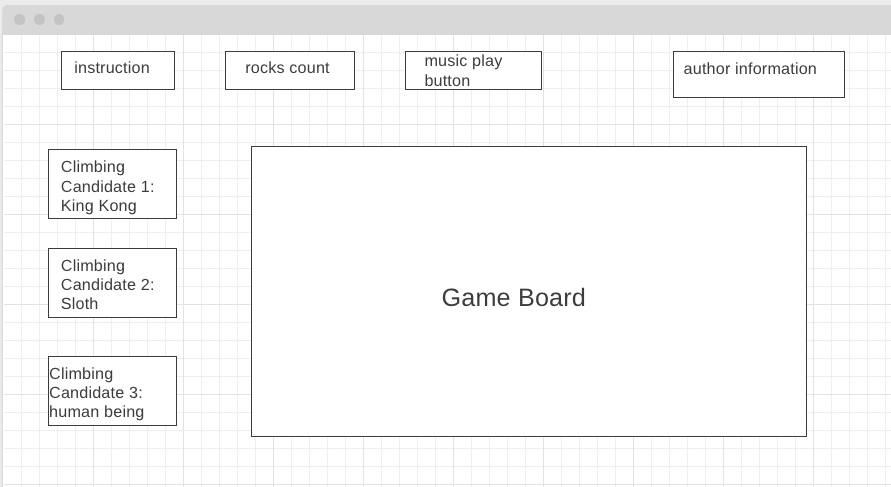
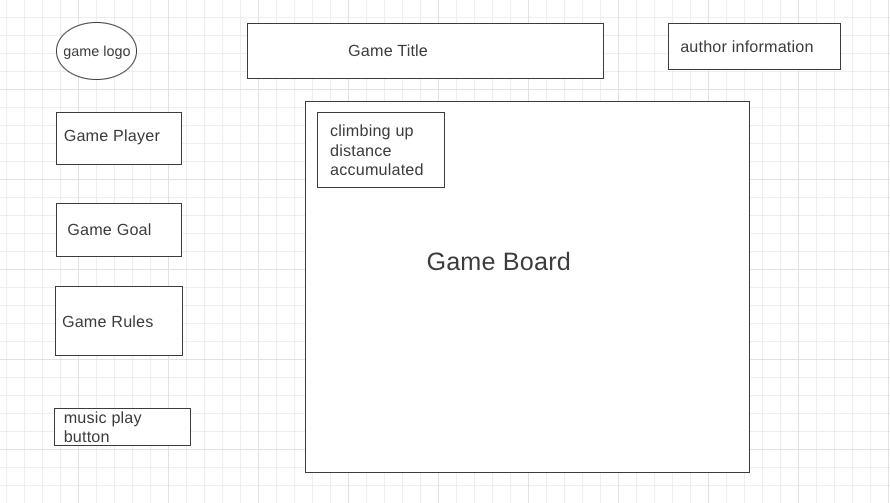
update README.md

diff --git a/index.html b/index.html
@@ -114,6 +114,7 @@
       let mySong = document.getElementById("jungle-music");
       let offButton = document.getElementById("music-off");
       let playButton = document.getElementById("music-on");
+
       playButton.onclick = function () {
         mySong.play();
         offButton.classList.remove("hidden");

diff --git a/README.md b/README.md
@@ -2,16 +2,15 @@
 
 # Background
 
-The Climbing game is similar to Doodle Jump. It enables you to choose from 3 characters as a player as he/she climbs up a mountain through a series of rocks. You must avoid the hazards that get in your way(e.g. avalanche, broken rocks, or a dragon breathing fire to you etc. ) to prevent yourself from falling off the rocks. The background of the game board will also dynamically change as you climb your way up to the mountain. It will be sunny initially and start raining when the dragon comes to the place, and if you can summit, you win. Meanwhile, you will still get scored with the numbers of rocks you passed.
+The Monkey Climbing game is javascript game where you control a monkey to climb on bananas and climb as high as you can without falling. You will get scored with the climbing distance you have made during the game.
 
 # Functionality & MVPs
 
 In the climbing game, users will be able to:
 
-- pick a character and start the game
-- use the left/right keyboard to control the climbing direction and reach the rocks to avoid falling off
-- see a moving background as they climb all the way up
-- accumulate their scores by passing more rock
+- use the left/right keyboard to control the climbing direction and reach the bananas to avoid falling off
+- see moving bananas as they climb all the way up
+- accumulate their scores by climbing as much as they could
 
 In addition, this project will include:
 
@@ -22,16 +21,14 @@ In addition, this project will include:
 
 ![Alt text](./Wireframe.png)
 
-- Instruction on the upper left include the background and rules of the game.
-- Rock count keeps track of the number of rocks the player accumulates.
-- In the top middle , there will be clickable music play button.
-- On the right, there will be Author information including links to this project's Github repo, my LinkedIn and AngelList.
-- On the left, three clickable characters will be presented for users to pick as different characters have different climbing speed and different motion types. (Bonus)
-- Additionally, a drop-down will be added to pick a theme for different rule sets (Bonus).
+- On the upper right corner, three clickable contact icons of the author are presented for users to get information about the game creator.
+- Instruction on the left column includes the background and rules of the game.
+- A music button on the lower left corner to control the music on and off.
+- Score on the upper left of the game canvas keeps track of the climbing distance the player accumulates.
 
 # Technologies, Libraries, APIs
 
-I am planning to use the native browser technology, Canvas API to render the background of the game as well as the characters, all the motions involved.
+I use the native browser technology, Canvas API to render the background of the game, bananas as well as the monkey, all the motions involved.
 
 # Implementation Timeline
 
@@ -45,5 +42,6 @@ I am planning to use the native browser technology, Canvas API to render the bac
 
 There are many themes and characters with different climbing behaviors I can add on to the main game.
 
-- More themes to choose from a drop down list
+- More themes to choose from a drop down list.
+- More obstacles and reward types to be encoutered the higher the monkey climbs up.
 - Create different motion effect on different characters accordingly, rather than just a different images.
